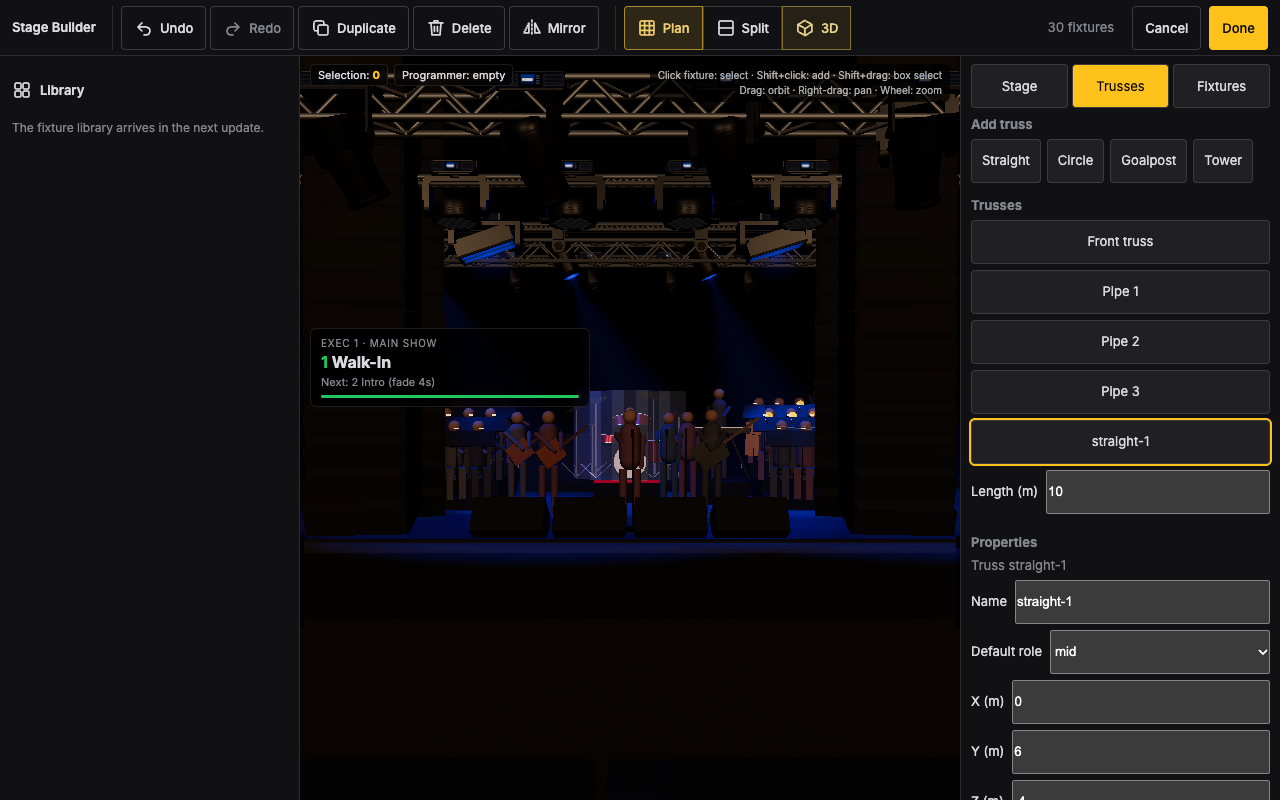
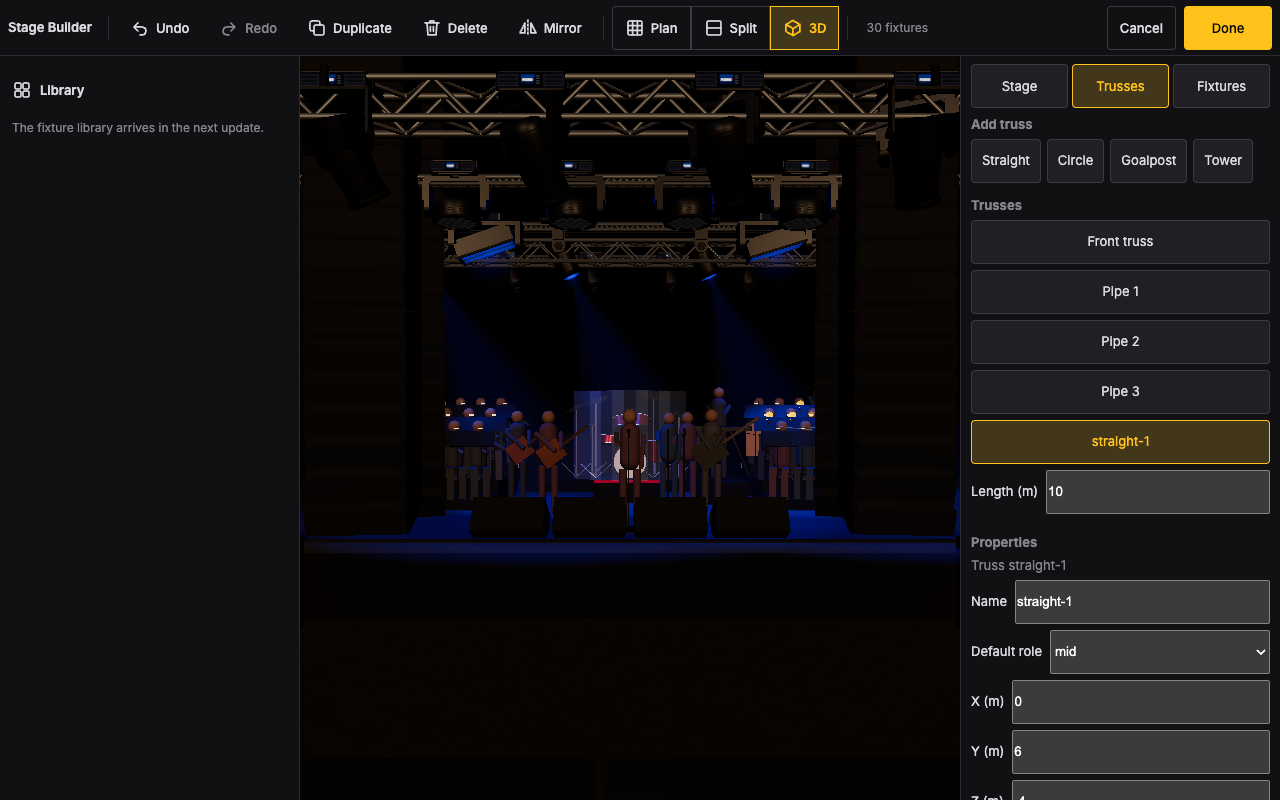
Stage Builder shell: design-review fixes (plain edit buttons, drawer under the bar, HUD hidden, badge and divider)

diff --git a/src/styles/builder/_bar-row.scss b/src/styles/builder/_bar-row.scss
@@ -1,0 +1,94 @@
+// The builder bar's row (docs/plan/stage-builder-ux/toolbar.md): title, edit group, view-mode group, count badge,
+// flexible space, then the session buttons. One row that never wraps; the buttons get their colours from the Web
+// Awesome tokens. Only the badge may shrink (it ends in an ellipsis): a shrunk group would stack its buttons, and the
+// bar's row would clip them. The narrow-screen rules are in _bar-narrow.scss; _bar.scss loads both in order.
+.builder {
+  .builder-bar {
+    display: flex;
+    align-items: center;
+    gap: 8px;
+    padding-inline: 8px;
+    background: var(--p1);
+    border-block-end: 1px solid var(--line);
+    > * {
+      flex-shrink: 0;
+    }
+  }
+  .builder-title {
+    margin-inline-end: 8px;
+    font-size: 13px;
+    font-weight: 600;
+    white-space: nowrap;
+  }
+  // The group dividers (1 px --line, 24 px tall) are pseudo-elements: before each group and after the mode group,
+  // each 8 px from the buttons (the 4 px margin plus the group's gap).
+  .edit-tools,
+  .view-modes {
+    display: flex;
+    align-items: center;
+    gap: 4px;
+    &::before,
+    &::after {
+      content: '';
+      inline-size: 1px;
+      block-size: 24px;
+      background: var(--line);
+    }
+    &::before {
+      margin-inline-end: 4px;
+    }
+  }
+  .edit-tools::after {
+    content: none;
+  }
+  .view-modes::after {
+    margin-inline-start: 4px;
+  }
+  // Plain edit buttons: no border, transparent; hover --p3 and pressed --line2 through the neutral tokens (_wa-theme).
+  .edit-tools wa-button::part(base) {
+    background: transparent;
+    border-color: transparent;
+  }
+  .edit-tools wa-button:not([disabled])::part(base):hover {
+    background: var(--wa-color-neutral-fill-normal);
+  }
+  .edit-tools wa-button:not([disabled])::part(base):active {
+    background: var(--wa-color-neutral-fill-loud);
+  }
+  // after `.builder-bar > *` (same specificity), so the badge alone shrinks
+  .count-badge {
+    flex-shrink: 1;
+    min-width: 0;
+    padding-inline: 10px;
+    overflow: hidden;
+    text-overflow: ellipsis;
+    white-space: nowrap;
+    color: var(--mut);
+    font-size: 12px;
+    font-variant-numeric: tabular-nums;
+    &.is-warning {
+      color: var(--prog);
+      font-weight: 600;
+    }
+  }
+  // The flexible space sits before the first session button: Cancel on a wide screen (bar-narrow moves it).
+  .builder-bar wa-button[data-builder='cancel'] {
+    margin-inline-start: auto;
+  }
+  .builder-btn.is-primary::part(base) {
+    min-inline-size: 88px;
+    padding-inline: 16px;
+  }
+  .view-modes wa-button.is-pressed::part(base) {
+    background: var(--wa-color-brand-fill-normal);
+    color: var(--wa-color-brand-on-normal);
+    border-color: var(--wa-color-brand-border-normal);
+  }
+  // wa-button dims a disabled host to 0.5; the spec keeps full opacity and greys the text instead.
+  .builder-bar wa-button[disabled] {
+    opacity: 1;
+  }
+  .builder-bar wa-button[disabled]::part(base) {
+    color: var(--mut);
+  }
+}

diff --git a/src/styles/builder/_bar.scss b/src/styles/builder/_bar.scss
@@ -1,89 +1,4 @@
-@use '../abstracts/breakpoints' as *;
-
-// Below this width (iPad portrait) the bar has no room for its title (toolbar.md, narrow layout).
-$builder-title-hidden: 819px;
-
-// The builder bar (docs/plan/stage-builder-ux/toolbar.md): title, edit group, view-mode group, count badge, then the
-// session buttons. One row that never wraps; the buttons get their colours from the Web Awesome tokens. Only the badge
-// may shrink (it ends in an ellipsis): a shrunk group would stack its buttons, and the bar's row would clip them.
-.builder {
-  .builder-bar {
-    display: flex;
-    align-items: center;
-    gap: 8px;
-    padding-inline: 12px;
-    background: var(--p1);
-    border-block-end: 1px solid var(--line);
-    > * {
-      flex-shrink: 0;
-    }
-  }
-  .builder-title {
-    margin-inline-end: 8px;
-    font-size: 13px;
-    font-weight: 600;
-    white-space: nowrap;
-  }
-  .edit-tools,
-  .view-modes {
-    display: flex;
-    gap: 4px;
-    padding-inline: 8px;
-    border-inline-start: 1px solid var(--line);
-  }
-  // after `.builder-bar > *` (same specificity), so the badge alone shrinks
-  .count-badge {
-    flex-shrink: 1;
-    min-width: 0;
-    margin-inline-start: auto;
-    padding-inline: 10px;
-    overflow: hidden;
-    text-overflow: ellipsis;
-    white-space: nowrap;
-    color: var(--mut);
-    font-variant-numeric: tabular-nums;
-    &.is-warning {
-      color: var(--prog);
-      font-weight: 600;
-    }
-  }
-  .view-modes wa-button.is-pressed::part(base) {
-    background: var(--wa-color-brand-fill-normal);
-    color: var(--wa-color-brand-on-normal);
-    border-color: var(--wa-color-brand-border-normal);
-  }
-  // wa-button dims a disabled host to 0.5; the spec keeps full opacity and greys the text instead.
-  .builder-bar wa-button[disabled] {
-    opacity: 1;
-  }
-  .builder-bar wa-button[disabled]::part(base) {
-    color: var(--mut);
-  }
-}
-
-// Narrow: the edit, mode and Inspector buttons show only the icon (44 x 44) and their tooltip; Cancel and Done keep
-// the text. The label (a <slot>) is hidden from sight only: with `display: none` the button would lose its name.
-@include below($builder-narrow) {
-  .builder .edit-tools wa-button,
-  .builder .view-modes wa-button,
-  .builder .builder-bar wa-button[data-builder='inspector'] {
-    &::part(label) {
-      display: block;
-      position: absolute;
-      width: 1px;
-      height: 1px;
-      overflow: hidden;
-      clip-path: inset(50%);
-      white-space: nowrap;
-    }
-    .wa-icon-svg {
-      margin-inline-end: 0;
-    }
-  }
-}
-
-@include below($builder-title-hidden) {
-  .builder .builder-title {
-    display: none;
-  }
-}
+// The builder bar: the row and its wide-screen rules first, then the narrow-screen overrides, which win at equal
+// specificity only in this order.
+@use 'bar-row';
+@use 'bar-narrow';

diff --git a/tests/unit/ui/builder/shell/iconButton.test.ts b/tests/unit/ui/builder/shell/iconButton.test.ts
@@ -1,0 +1,33 @@
+// @vitest-environment jsdom
+/**
+ * Owns the bar button markup's `appearance`: the edit toolbar's buttons are plain (no border), the mode group's are
+ * outlined, so the two rows read apart (toolbar.md). The buttons' behaviour is owned by EditToolbar.test.ts and
+ * ViewModeSwitch.test.ts. jsdom, to read the attributes from parsed markup.
+ */
+import { describe, expect, it } from 'vitest';
+import { editToolbarMarkup } from '../../../../../src/ui/builder/shell/editToolbarMarkup.ts';
+import { iconButton } from '../../../../../src/ui/builder/shell/iconButton.ts';
+import { ViewModeSwitch } from '../../../../../src/ui/builder/shell/ViewModeSwitch.ts';
+
+const appearances = (root: HTMLElement): string[] =>
+  Array.from(root.querySelectorAll('wa-button')).map((button) => button.getAttribute('appearance') ?? 'none');
+
+describe('iconButton', () => {
+  it('writes the appearance it is given on the button', () => {
+    const root = document.createElement('div');
+    root.innerHTML = iconButton({ id: 'b', hook: 'data-x="y"', icon: 'undo', label: 'Undo', tip: 'tip' }, 'outlined');
+    expect(appearances(root)).toEqual(['outlined']);
+  });
+
+  // catches edit buttons boxed like the mode buttons, so the bar reads as one row of eight equal boxes
+  it('gives the edit toolbar five plain buttons and the mode group three outlined ones', () => {
+    const tools = document.createElement('div');
+    tools.innerHTML = editToolbarMarkup;
+    const modes = document.createElement('div');
+    new ViewModeSwitch(modes, 'split', () => {});
+    expect([appearances(tools), appearances(modes)]).toEqual([
+      ['plain', 'plain', 'plain', 'plain', 'plain'],
+      ['outlined', 'outlined', 'outlined'],
+    ]);
+  });
+});

diff --git a/src/ui/builder/shell/iconButton.ts b/src/ui/builder/shell/iconButton.ts
@@ -13,14 +13,17 @@ export interface IconButton {
   readonly tip: string;
 }
 
+/** The Web Awesome `appearance`: `plain` for the edit buttons (no border), `outlined` for the mode group. */
+export type IconButtonAppearance = 'plain' | 'outlined';
+
 /**
- * The markup of an outlined `wa-button` with a start icon and its `wa-tooltip`. The tooltip replaces the old `title`
- * attribute: it is styled with the builder and also shows on keyboard focus. The edit toolbar and the view-mode switch
- * both build their buttons with it, so the two rows cannot drift apart.
+ * The markup of a `wa-button` with a start icon and its `wa-tooltip`. The tooltip replaces the old `title` attribute:
+ * it is styled with the builder and also shows on keyboard focus. The edit toolbar and the view-mode switch both build
+ * their buttons with it, so the two rows cannot drift apart; only their `appearance` differs (toolbar.md).
  */
-export function iconButton(button: IconButton): string {
+export function iconButton(button: IconButton, appearance: IconButtonAppearance): string {
   return (
-    `<wa-button id="${button.id}" ${button.hook} appearance="outlined">${startIcon(button.icon)}${button.label}` +
+    `<wa-button id="${button.id}" ${button.hook} appearance="${appearance}">${startIcon(button.icon)}${button.label}` +
     `</wa-button>\n<wa-tooltip for="${button.id}">${button.tip}</wa-tooltip>`
   );
 }

diff --git a/src/styles/builder/_bar-narrow.scss b/src/styles/builder/_bar-narrow.scss
@@ -1,0 +1,42 @@
+@use '../abstracts/breakpoints' as *;
+
+// Below this width (iPad portrait) the bar has no room for its title (toolbar.md, narrow layout).
+$builder-title-hidden: 819px;
+
+// Narrow: the edit, mode and Inspector buttons show only the icon (44 x 44) and their tooltip; Cancel and Done keep
+// the text. The label (a <slot>) is hidden from sight only: with `display: none` the button would lose its name.
+@include below($builder-narrow) {
+  .builder .edit-tools wa-button,
+  .builder .view-modes wa-button,
+  .builder .builder-bar wa-button[data-builder='inspector'] {
+    &::part(label) {
+      display: block;
+      position: absolute;
+      width: 1px;
+      height: 1px;
+      overflow: hidden;
+      clip-path: inset(50%);
+      white-space: nowrap;
+    }
+    .wa-icon-svg {
+      margin-inline-end: 0;
+    }
+  }
+  // The Inspector button shows here and becomes the first session button, so the flexible space moves to it.
+  .builder .builder-bar wa-button[data-builder='inspector'] {
+    margin-inline-start: auto;
+  }
+  .builder .builder-bar wa-button[data-builder='cancel'] {
+    margin-inline-start: 0;
+  }
+}
+
+// Without the title, the divider before the edit group would stand at the bar's edge.
+@include below($builder-title-hidden) {
+  .builder .builder-title {
+    display: none;
+  }
+  .builder .edit-tools::before {
+    content: none;
+  }
+}

diff --git a/src/styles/builder/_inspector.scss b/src/styles/builder/_inspector.scss
@@ -6,18 +6,24 @@
     border-inline-start: 1px solid var(--line);
   }
   // The host is a child of the .builder grid; in flow it would add a third, 0 px row (and a 0 px box). Fixed, it leaves
-  // the grid. While open (closed it is display: none) it covers the window, so clicks go through it to the dialog only.
+  // the grid. While open (closed it is display: none) it covers the window below the bar, so the bar stays in view;
+  // clicks go through the host to the dialog and to the overlay only (a click on the overlay closes the drawer).
   .inspector-drawer {
     --size: 320px;
     --spacing: 12px;
     position: fixed;
-    inset: 0;
+    inset: var(--builder-bar-height) 0 0 0;
     pointer-events: none;
+  }
+  .inspector-drawer::part(overlay) {
+    pointer-events: auto;
   }
   .inspector-drawer::part(dialog) {
     pointer-events: auto;
     background: var(--p1);
     color: var(--txt);
+    border-inline-start: 1px solid var(--line);
+    box-shadow: var(--wa-shadow-l);
   }
   .inspector-drawer::part(body) {
     padding: 0;

diff --git a/src/styles/builder/_centre.scss b/src/styles/builder/_centre.scss
@@ -15,6 +15,10 @@
   .centre-split::part(divider) {
     background: var(--line);
   }
+  // The divider is in the panel's shadow DOM, so no tooltip reaches it: the hover tint is its only affordance.
+  .centre-split::part(divider):hover {
+    background: var(--line2);
+  }
   .centre-split::part(divider):focus-visible {
     outline: 2px solid var(--acc);
     outline-offset: 1px;
@@ -45,6 +49,8 @@
   }
   // Hidden, not removed: the split panel places its panes in a fixed `start divider end` grid, and a divider with
   // `display: none` would shift the end pane into the divider's track. Hidden also takes it out of the tab order.
+  // Also hidden under the start screen, which it showed through as a grey line.
+  &:not(.is-editing) .centre-split::part(divider),
   .builder-centre.is-mode-plan .centre-split::part(divider),
   .builder-centre.is-mode-3d .centre-split::part(divider) {
     visibility: hidden;

diff --git a/src/ui/builder/shell/ViewModeSwitch.ts b/src/ui/builder/shell/ViewModeSwitch.ts
@@ -26,7 +26,8 @@ export class ViewModeSwitch {
 
   /** Renders the button group into `root` with `initial` pressed; `onChange` hears only later changes. */
   constructor(root: HTMLElement, initial: ViewMode, onChange: (mode: ViewMode) => void) {
-    root.innerHTML = `<wa-button-group label="View">${MODES.map((mode) => iconButton(BUTTONS[mode])).join('\n')}</wa-button-group>`;
+    const buttons = MODES.map((mode) => iconButton(BUTTONS[mode], 'outlined')).join('\n');
+    root.innerHTML = `<wa-button-group label="View">${buttons}</wa-button-group>`;
     this.#buttons = new Map(MODES.map((mode) => [mode, requireChild(root, `[data-mode="${mode}"]`)]));
     for (const [mode, button] of this.#buttons) button.onclick = () => this.set(mode);
     this.#onChange = onChange;

diff --git a/src/styles/builder/_panel.scss b/src/styles/builder/_panel.scss
@@ -13,9 +13,11 @@
   }
   .tool-tab {
     flex: 1;
+    // brand normal (toolbar.md's selected state), so only Done is solid accent
     &.is-active {
-      background: var(--acc);
-      color: var(--bg);
+      background: color-mix(in srgb, var(--acc) 18%, var(--p2));
+      color: var(--acc);
+      border-color: var(--acc);
     }
   }
   .tool-panel,
@@ -68,7 +70,9 @@
     min-height: var(--builder-target);
     padding-inline: 10px;
     &.is-selected {
-      outline: 2px solid var(--acc);
+      background: color-mix(in srgb, var(--acc) 18%, var(--p2));
+      color: var(--acc);
+      border-color: var(--acc);
     }
   }
 }

diff --git a/src/ui/builder/shell/editToolbarMarkup.ts b/src/ui/builder/shell/editToolbarMarkup.ts
@@ -20,5 +20,8 @@ const BUTTONS: readonly IconButton[] = EDIT_ACTIONS.map((action) => ({
   tip: he.builder.edit[action],
 }));
 
-/** The edit buttons; `data-edit` names the `EditToolbar` action, the Hebrew tooltip says what it does and its key. */
-export const editToolbarMarkup = BUTTONS.map(iconButton).join('\n');
+/**
+ * The edit buttons, plain (no border, as toolbar.md draws them); `data-edit` names the `EditToolbar` action, the
+ * Hebrew tooltip says what it does and its key.
+ */
+export const editToolbarMarkup = BUTTONS.map((button) => iconButton(button, 'plain')).join('\n');

diff --git a/src/styles/base/_viewer.scss b/src/styles/base/_viewer.scss
@@ -47,3 +47,8 @@
 .chip b {
   color: var(--acc);
 }
+/* While the builder is open (#viewer moves into its 3D pane), only the two canvases show: the selection chips, the
+   help text, the tip and the cue card are the desk's HUD. */
+body.is-building #viewer > :not(canvas) {
+  display: none;
+}
